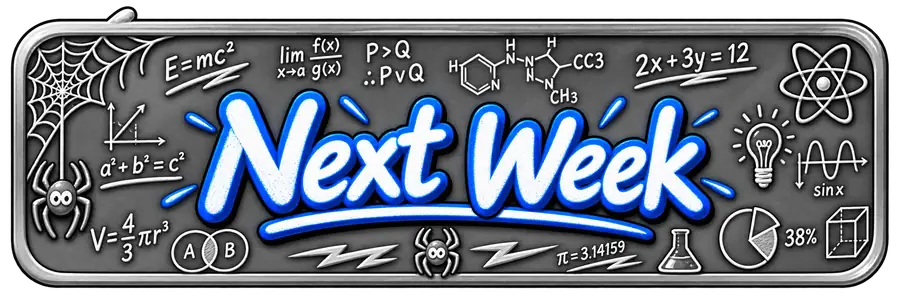
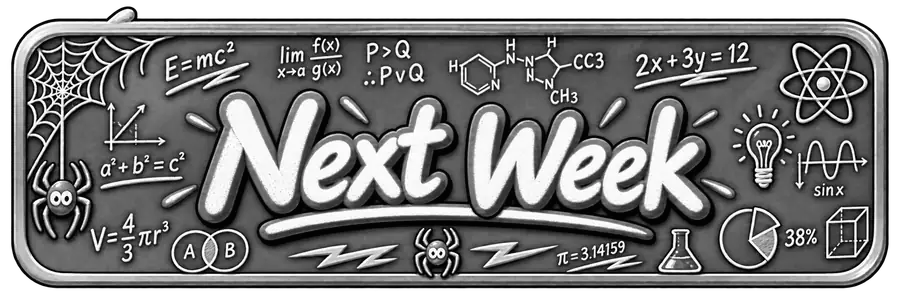
Grayscale next week card

diff --git a/app/globals.css b/app/globals.css
@@ -1169,8 +1169,22 @@ footer { width: min(1160px, 100%); margin: 0 auto; display: flex; justify-conten
 .due-tone-tomorrow .mobile-due-summary { color: #a56d00; }
 .due-tone-week .spider-count-badge strong { color: #198cff; text-shadow: 0 2px 1px #fff, 0 0 11px rgba(25, 140, 255, .9), 0 5px 7px rgba(0, 0, 0, .82); }
 .due-tone-week .mobile-due-summary { color: #1d62c8; }
-.due-tone-next-week .spider-count-badge strong { color: #25d9ff; text-shadow: 0 2px 1px #fff, 0 0 11px rgba(37, 217, 255, .9), 0 5px 7px rgba(0, 0, 0, .82); }
-.due-tone-next-week .mobile-due-summary { color: #1680ca; }
+.due-tone-next-week .spider-count-badge strong { color: #666; text-shadow: 0 2px 1px #fff, 0 0 8px rgba(120, 120, 120, .72), 0 5px 7px rgba(0, 0, 0, .72); }
+.due-tone-next-week .mobile-due-summary { color: #555; }
+.next-week-featured-slot .mobile-due-list button,
+.next-week-featured-slot .mobile-due-list strong,
+.next-week-featured-slot .mobile-due-list small,
+.next-week-featured-slot .week-item-due,
+.next-week-featured-slot .week-item-due b,
+.next-week-featured-slot .mobile-due-list i { color: #555; }
+.next-week-featured-slot .mobile-due-list small { color: #707070; }
+.next-week-featured-slot .assignment-teacher img,
+.next-week-featured-slot .teacher-avatar img,
+.next-week-featured-slot .mobile-due-list img,
+.next-week-featured-slot .assignment-audio-play img { filter: grayscale(1) saturate(0) contrast(.95); }
+.next-week-featured-slot .assignment-teacher-photo { border-color: #777; background: linear-gradient(145deg, #707070, #2f2f2f); }
+.next-week-featured-slot .assignment-teacher-photo strong,
+.next-week-featured-slot .assignment-teacher > small { color: #606060 !important; }
 @keyframes due-today-circle-pulse {
   0%, 100% { transform: scale(1); filter: drop-shadow(0 0 2px rgba(255, 20, 54, .45)); }
   50% { transform: scale(1.1); filter: drop-shadow(0 0 10px rgba(255, 20, 54, .88)); }
